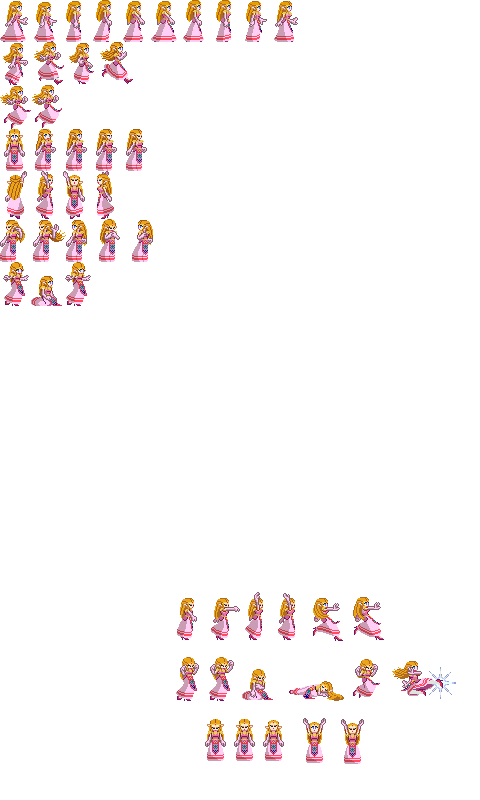
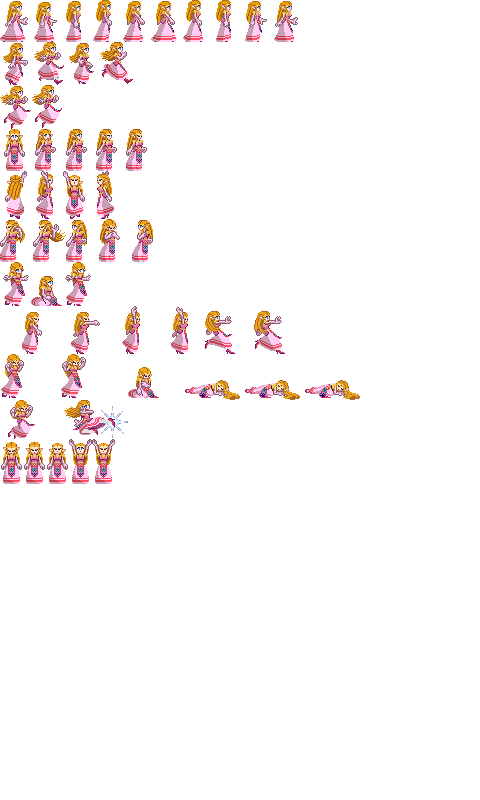
animations for Zelda are ready

diff --git a/res/images/sprite-test.js b/res/images/sprite-test.js
@@ -56,8 +56,8 @@ function clearCanvas() {
 
 var g_spriteSheet;
 
-var g_row = 0;
-    
+var g_row = 9;
+var g_interval = 100;
 function preload() {
     g_spriteSheet = new Image();
     g_spriteSheet.onload = callback;
@@ -66,7 +66,7 @@ function preload() {
 
 function loadNext(){
     g_cel = 0;
-    g_row = (g_row+1)%7;
+    g_row = (g_row+1)%11;
     preloadDone();
 }
 
@@ -96,12 +96,14 @@ function sumFirst(num, array){
 
 function preloadDone() {
     
-    var celWidthAll  = [30,33,31,30,30,33,31];
-    var celHeightAll = [42,43,44,42,48,43,44];
-    var numColsAll = [10,4,2,5,4,5,3];
+    var celWidthAll  = [30,33,31,30,30,33,31,50,60,64,23];
+    var celHeightAll = [42,43,44,42,48,43,44,48,46,39,45];
+    var numColsAll = [10,4,2,5,4,5,3,6,6,2,5];
+    var intervals = [100,100,100,100,100,100,200,100,150,200,150];
     var numCols = numColsAll[g_row];
     var celWidth = celWidthAll[g_row];
     var celHeight = celHeightAll[g_row];
+    g_interval = intervals[g_row];
     g_sprites = [];
     var sprite;
     
@@ -150,7 +152,7 @@ function main() {
     if (g_cel === g_sprites.length) g_cel = 0;
     
     // A poor man's cross-browser "requestAnimationFrame"
-    setTimeout(main, 100);
+    setTimeout(main, g_interval);
 }
 
 preload();
